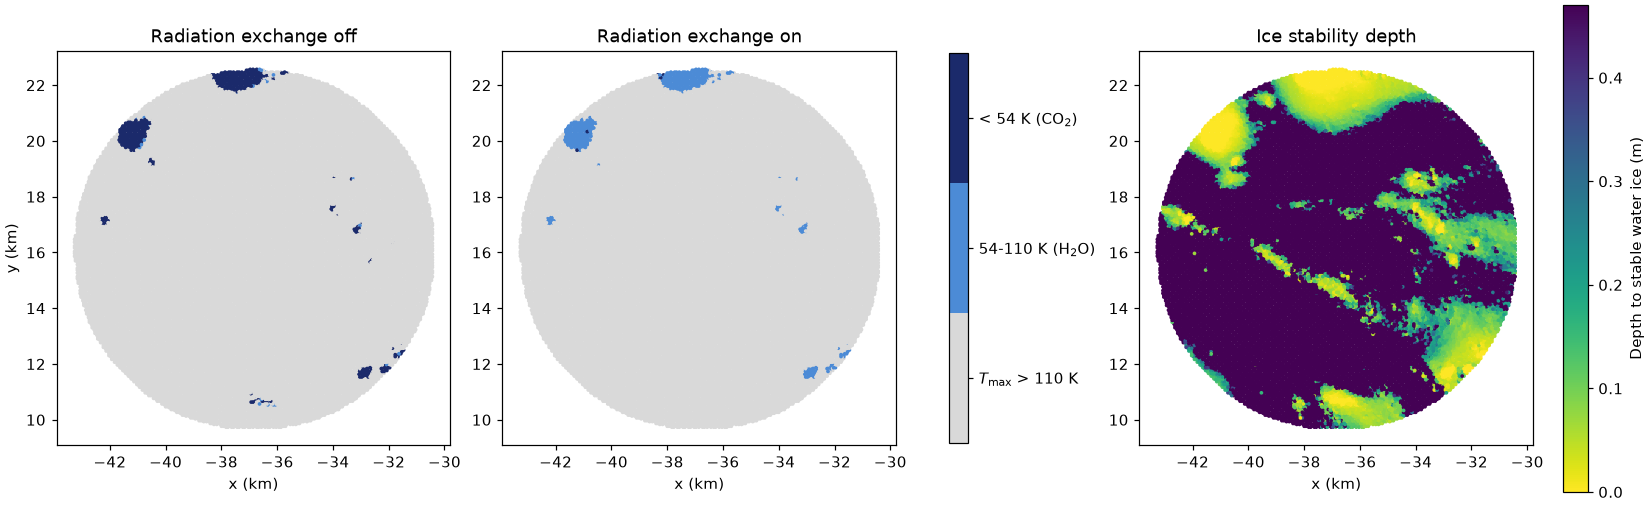
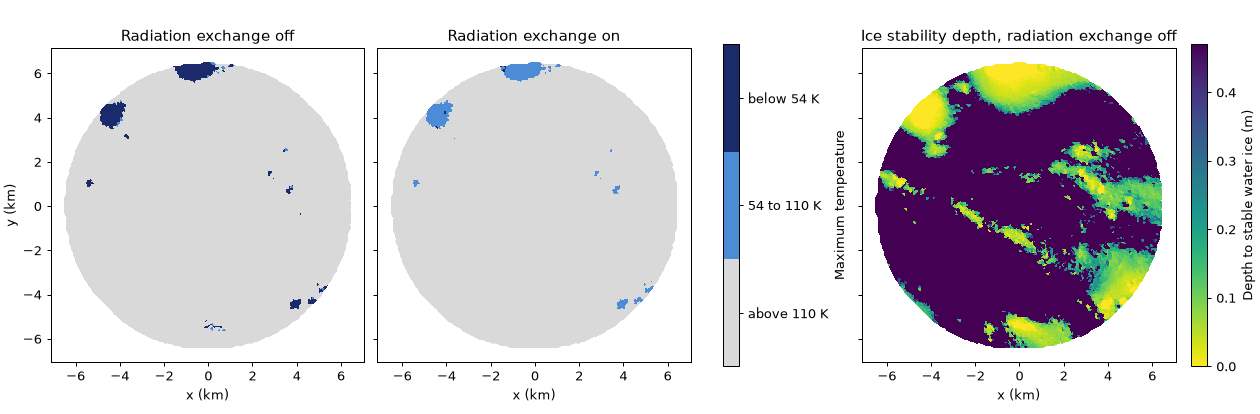
docs(tutorial 5): maps drawn on the mesh; maximum and mean temperature maps; cold-trap area against the threshold temperature
The cold-trap figure is drawn with the mesh triangles instead of dots. The
printed areas are unchanged (2.09/1.98, 1.94/0.02 and 28.9 percent).

diff --git a/docs/tutorials/05_lunar_polar_ice.md b/docs/tutorials/05_lunar_polar_ice.md
@@ -138,11 +138,15 @@ Occluder mesh registered: 75275 verts, 150245 tris (shadow BVH only)
 ## Cold traps and ice
 
 Save the following as a file and run it with Python from the repository root, in the
-environment described in [INSTALL.md](../../INSTALL.md).
+environment described in [INSTALL.md](../../INSTALL.md). The maps use south polar stereographic
+coordinates x and y, in kilometers from the center of the region, with the 0° meridian along +y.
 
 ```python
 import numpy as np
+import matplotlib
+matplotlib.use("Agg")
 import matplotlib.pyplot as plt
+from matplotlib.colors import ListedColormap
 from ptm import Results
 
 off = Results("output/lunar_ice_degerlache_radoff")
@@ -162,30 +166,35 @@ ice = off.stat("ice_depth", None)
 print(f"water ice stable within the column on {percent(ice < ice.max()):.1f}% of the area, "
       f"at the surface on {percent(ice == 0):.2f}%")
 
-# Polar stereographic map coordinates of the face centers, in km.
+# South polar stereographic coordinates of the mesh vertices, in km.
 R = 1737.4
-lat, lon = np.radians(off.lat), np.radians(off.lon)
+v = off.mesh["vertices"] / 1000.0
+lat = np.arcsin(v[:, 2] / np.linalg.norm(v, axis=1))
+lon = np.arctan2(v[:, 1], v[:, 0])
 rho = 2 * R * np.tan((np.pi / 2 + lat) / 2)
 x, y = rho * np.sin(lon), rho * np.cos(lon)
+x, y = x - x.mean(), y - y.mean()
+tris = off.mesh["faces"]
 
-fig, axes = plt.subplots(1, 3, figsize=(15, 4.6), constrained_layout=True)
+fig, axes = plt.subplots(1, 3, figsize=(14.0, 4.6), sharey=True, constrained_layout=True)
+classes = ListedColormap(["#d9d9d9", "#4c8bd6", "#1b2a6b"])
 for ax, run, title in ((axes[0], off, "Radiation exchange off"),
                        (axes[1], on, "Radiation exchange on")):
     tmax = run.stat("temperature", "max")
     trap = np.where(tmax < CO2, 2, np.where(tmax < H2O, 1, 0))
-    art = ax.scatter(x, y, c=trap, s=2, cmap=plt.matplotlib.colors.ListedColormap(
-        ["#d9d9d9", "#4c8bd6", "#1b2a6b"]), vmin=-0.5, vmax=2.5)
+    art = ax.tripcolor(x, y, tris, facecolors=trap, cmap=classes, vmin=-0.5, vmax=2.5)
     ax.set_title(title)
 cbar = fig.colorbar(art, ax=axes[:2], ticks=[0, 1, 2], shrink=0.8)
-cbar.ax.set_yticklabels([r"$T_\mathrm{max}$ > 110 K", "54-110 K (H$_2$O)", "< 54 K (CO$_2$)"])
-art = axes[2].scatter(x, y, c=ice, s=2, cmap="viridis_r")
-fig.colorbar(art, ax=axes[2], label="Depth to stable water ice (m)")
-axes[2].set_title("Ice stability depth")
+cbar.ax.set_yticklabels(["above 110 K", "54 to 110 K", "below 54 K"])
+cbar.set_label("Maximum temperature")
+art = axes[2].tripcolor(x, y, tris, facecolors=ice, cmap="viridis_r")
+fig.colorbar(art, ax=axes[2], shrink=0.8, label="Depth to stable water ice (m)")
+axes[2].set_title("Ice stability depth, radiation exchange off")
 for ax in axes:
     ax.set_aspect("equal")
     ax.set_xlabel("x (km)")
 axes[0].set_ylabel("y (km)")
-fig.savefig("output/lunar_ice_degerlache_cold_traps.png", dpi=110)
+fig.savefig("output/lunar_ice_degerlache_cold_traps.png", dpi=90)
 ```
 
 The expected output is below.
@@ -210,8 +219,79 @@ contrast for the Moon3D crater. A carbon dioxide cold trap can only be identifie
 exchange included.
 
 Water ice is stable within the top 0.47 m, the depth of the model's soil column, over a much
-larger area than the surface cold traps. In the figure, ice depth 0 marks the surface cold traps,
-and the darkest color marks faces where ice is not stable anywhere within the column.
+larger area than the surface cold traps. In the third panel, ice depth 0 marks the surface cold
+traps, and the darkest color marks faces where ice is not stable anywhere within the column.
+
+## Temperature maps and other volatiles
+
+The cold-trap maps above reduce each face to a class. The next block maps the maximum and mean
+temperature of the run with radiation exchange, and computes the fraction of the area whose
+maximum temperature is below a threshold, for every threshold from 20 to 160 K. The second
+figure gives the cold-trap area for any volatile whose stability temperature is known.
+
+```python
+import numpy as np
+import matplotlib
+matplotlib.use("Agg")
+import matplotlib.pyplot as plt
+from ptm import Results
+
+off = Results("output/lunar_ice_degerlache_radoff")
+on = Results("output/lunar_ice_degerlache_coupled")
+area = off.face_areas_m2
+
+# The same map coordinates as in the previous block.
+R = 1737.4
+v = off.mesh["vertices"] / 1000.0
+lat = np.arcsin(v[:, 2] / np.linalg.norm(v, axis=1))
+lon = np.arctan2(v[:, 1], v[:, 0])
+rho = 2 * R * np.tan((np.pi / 2 + lat) / 2)
+x, y = rho * np.sin(lon), rho * np.cos(lon)
+x, y = x - x.mean(), y - y.mean()
+tris = off.mesh["faces"]
+
+# Maximum and mean temperature with radiation exchange.
+fig, axes = plt.subplots(1, 2, figsize=(10.5, 4.6), sharey=True, constrained_layout=True)
+for ax, moment, name in ((axes[0], "max", "Maximum"), (axes[1], "avg", "Mean")):
+    art = ax.tripcolor(x, y, tris, facecolors=on.stat("temperature", moment), cmap="inferno")
+    fig.colorbar(art, ax=ax, shrink=0.8, label=f"{name} temperature (K)")
+    ax.set_aspect("equal")
+    ax.set_xlabel("x (km)")
+axes[0].set_ylabel("y (km)")
+fig.savefig("output/lunar_ice_degerlache_temperature_maps.png", dpi=90)
+
+# Fraction of the area whose maximum temperature is below a threshold.
+threshold = np.linspace(20, 160, 281)
+fig, ax = plt.subplots(figsize=(6.5, 4.2), constrained_layout=True)
+for run, style, label in ((off, "--", "radiation exchange off"), (on, "-", "radiation exchange on")):
+    tmax = run.stat("temperature", "max")
+    frac = [100 * area[tmax < t].sum() / area.sum() for t in threshold]
+    ax.plot(threshold, frac, style, lw=2, label=label)
+for t, style, name in ((54.0, ":", "carbon dioxide, 54 K"), (110.0, "-.", "water, 110 K")):
+    ax.axvline(t, color="0.4", lw=1.2, ls=style, label=name)
+ax.set_xlabel("Threshold on the maximum temperature (K)")
+ax.set_ylabel("Area below the threshold (percent)")
+ax.legend(frameon=False, loc="upper left")
+fig.savefig("output/lunar_ice_degerlache_area_below_threshold.png", dpi=110)
+```
+
+![Maximum and mean surface temperature at the de Gerlache crater rim, with radiation exchange](images/lunar_ice_degerlache_temperature_maps.png)
+
+The maximum temperature follows the topography. At this latitude the Sun circles the horizon once
+a lunar day, never more than a few degrees high, so the faces that it strikes nearly face-on at
+some time of the year exceed 300 K. The floors of small craters and the shadowed parts of the rim
+stay below 100 K. The mean temperature shows the same pattern over about half the range, because
+each face is lit for only part of the time.
+
+![Fraction of the area whose maximum temperature is below a threshold](images/lunar_ice_degerlache_area_below_threshold.png)
+
+Without radiation exchange the curve rises abruptly near 24 K, the temperature at which the
+Moon's internal heat flow balances thermal emission, because the permanently shadowed faces have
+no other source of heat. With radiation exchange the same faces are spread between about 50 and
+100 K by the infrared emission of the terrain around them. A threshold anywhere in that range,
+such as the 54 K of carbon dioxide, therefore gives a very different area in the two runs, while
+the area below 110 K is nearly the same. The same curve, read at another temperature, gives the
+cold-trap area of another volatile. This is a calculation on the output and needs no new run.
 
 ## What the numbers depend on
 
